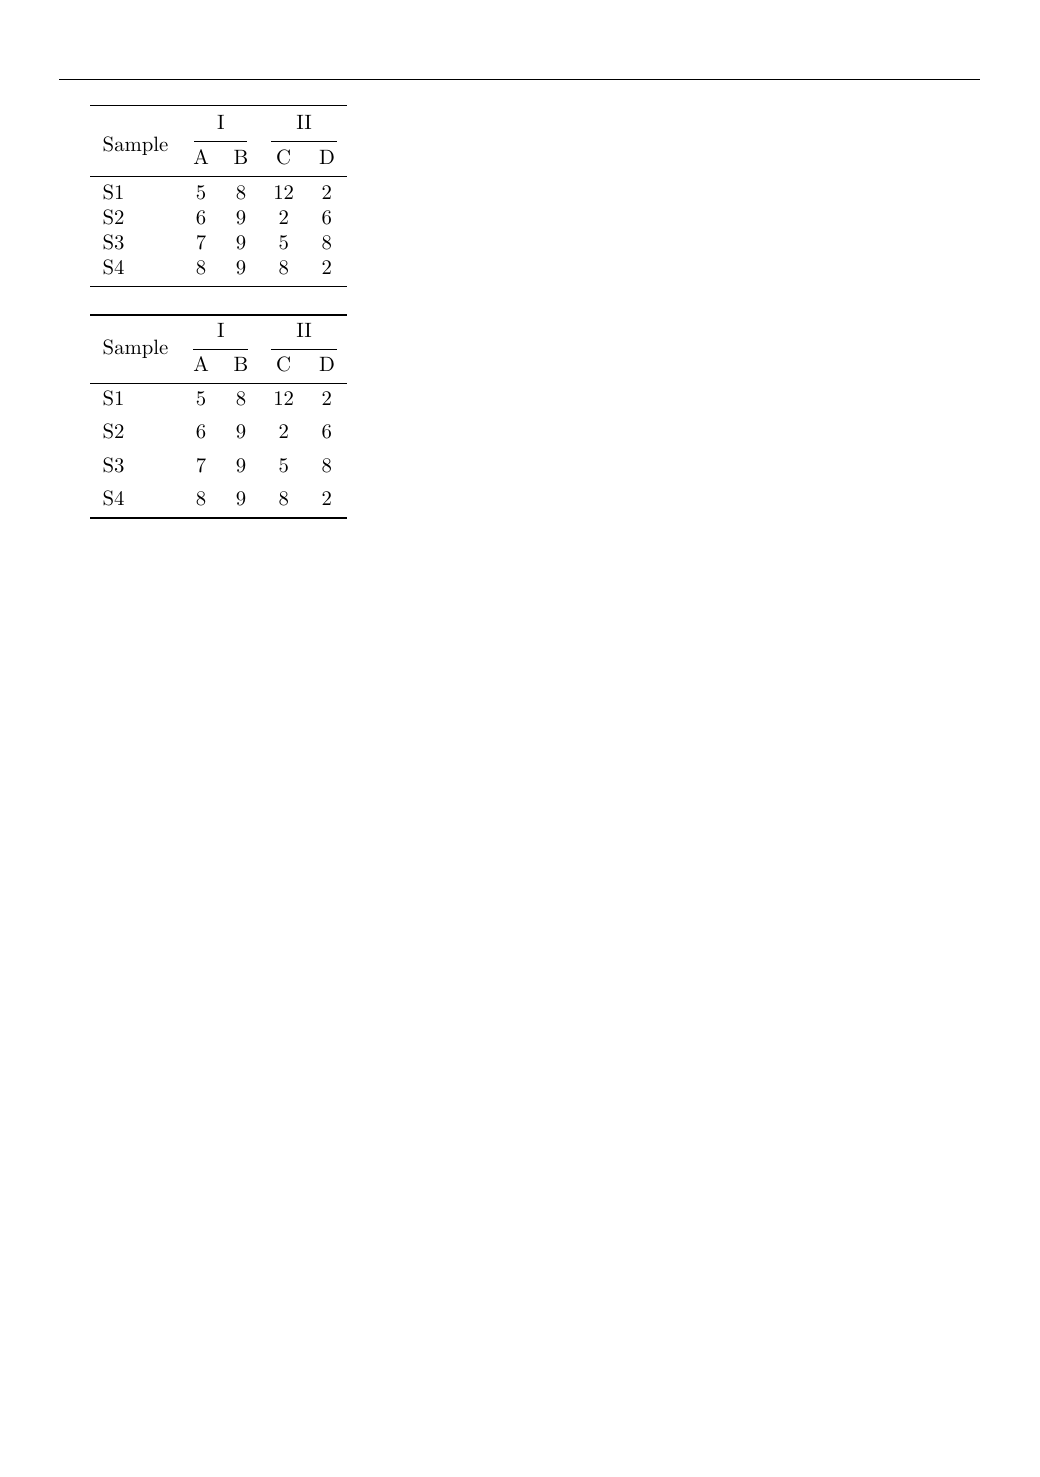
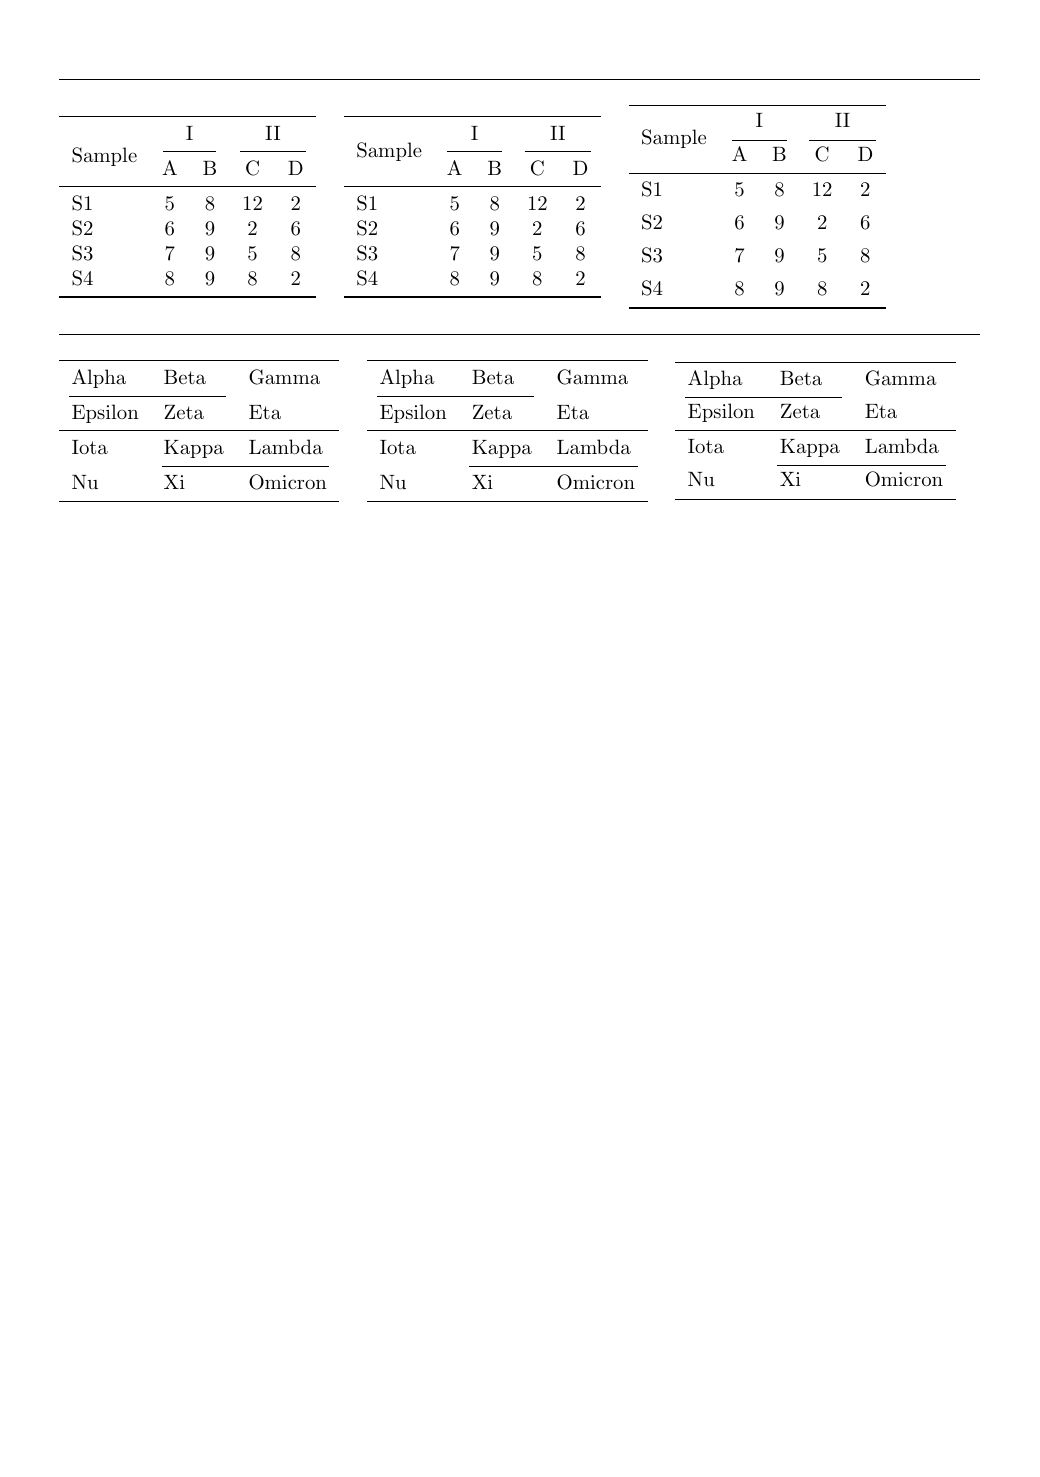
add booktabs environment (#79)

diff --git a/testfiles/library-005.tex b/testfiles/library-005.tex
@@ -1,6 +1,7 @@
 \documentclass{article}
 \usepackage[b5paper,margin=1cm]{geometry}
 \pagestyle{empty}
+\setlength{\parindent}{0pt}
 
 \input{regression-test}
 
@@ -17,7 +18,7 @@
 \START
 \hrule\bigskip
 
-\BEGINTEST{testing trim option for booktabs}
+\BEGINTEST{testing trim option and booktabs environment for booktabs library}
 \begin{tabular}{lcccc}
 \toprule
   \multirow{2}[3]{*}{Sample} & \multicolumn{2}{c}{I} & \multicolumn{2}{c}{II} \\
@@ -30,9 +31,24 @@
   S4 & 8 & 9 &  8 & 2 \\
 \bottomrule
 \end{tabular}
-
-\bigskip
-
+\quad
+\begin{booktabs}{
+  colspec = lcccc,
+  cell{1}{1} = {r=2}{},
+  cell{1}{2,4} = {c=2}{},
+}
+\toprule
+  Sample & I &   & II &   \\
+\cmidrule[lr=-1]{2-3} \cmidrule[lr]{4-5}
+         & A & B & C  & D \\
+\midrule
+  S1     & 5 & 8 & 12 & 2 \\
+  S2     & 6 & 9 &  2 & 6 \\
+  S3     & 7 & 9 &  5 & 8 \\
+  S4     & 8 & 9 &  8 & 2 \\
+\bottomrule
+\end{booktabs}
+\quad
 \begin{tblr}{
   colspec = lcccc,
   cell{1}{1} = {r=2}{},
@@ -47,6 +63,42 @@
   S2     & 6 & 9 &  2 & 6 \\
   S3     & 7 & 9 &  5 & 8 \\
   S4     & 8 & 9 &  8 & 2 \\
+\bottomrule
+\end{tblr}
+\bigskip\hrule\bigskip
+\begin{tabular}{lll}
+\toprule
+ Alpha   & Beta  & Gamma   \\
+\cmidrule(lr){1-2}
+ Epsilon & Zeta  & Eta     \\
+\midrule
+ Iota    & Kappa & Lambda  \\
+\cmidrule(lr){2-3}
+ Nu      & Xi    & Omicron \\
+\bottomrule
+\end{tabular}
+\quad
+\begin{booktabs}{lll}
+\toprule
+ Alpha   & Beta  & Gamma   \\
+\cmidrule[lr]{1-2}
+ Epsilon & Zeta  & Eta     \\
+\midrule
+ Iota    & Kappa & Lambda  \\
+\cmidrule[lr]{2-3}
+ Nu      & Xi    & Omicron \\
+\bottomrule
+\end{booktabs}
+\quad
+\begin{tblr}{llll}
+\toprule
+ Alpha   & Beta  & Gamma   \\
+\cmidrule[lr]{1-2}
+ Epsilon & Zeta  & Eta     \\
+\midrule
+ Iota    & Kappa & Lambda  \\
+\cmidrule[lr]{2-3}
+ Nu      & Xi    & Omicron \\
 \bottomrule
 \end{tblr}
 \ENDTEST
